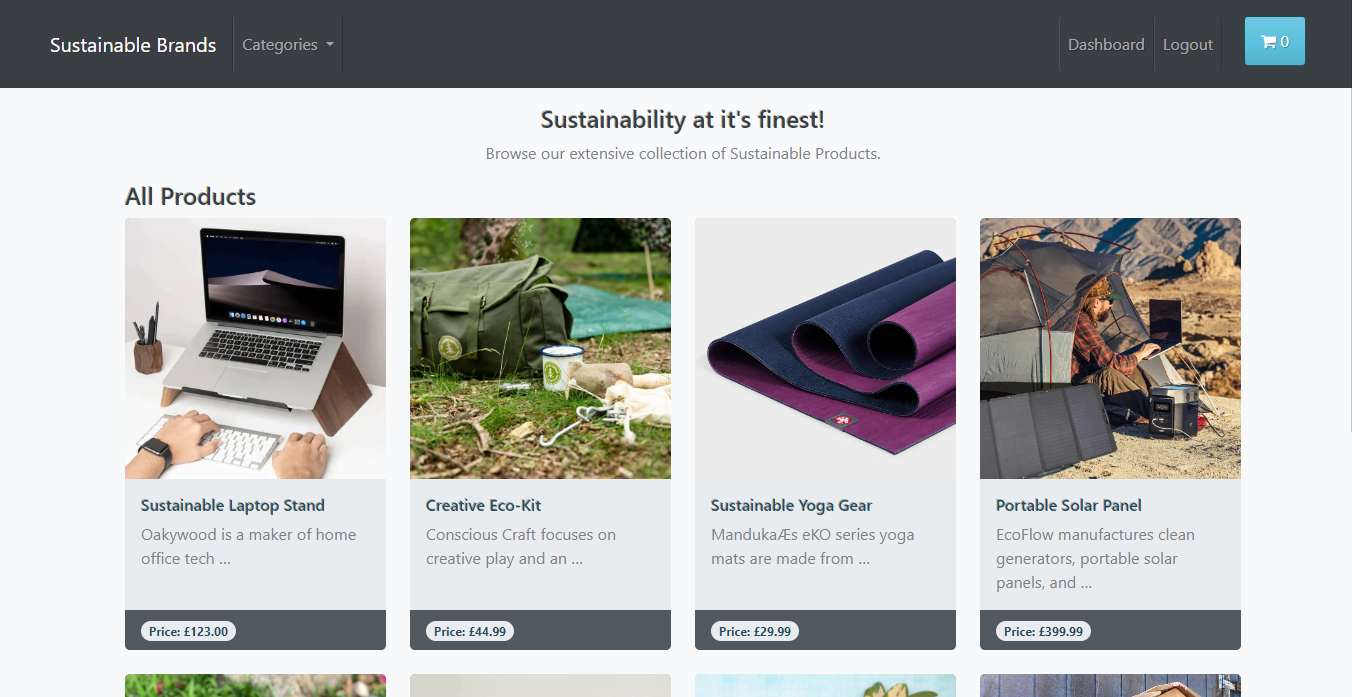
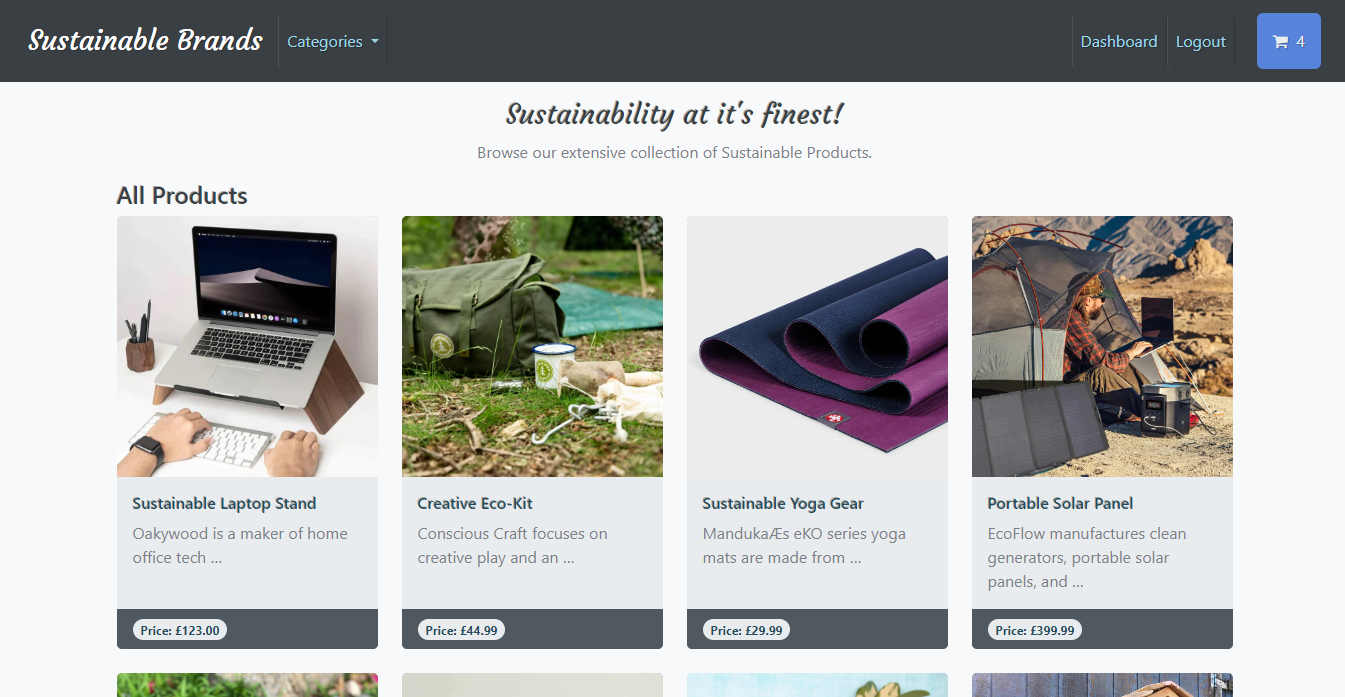
More on layout and theme improvement

diff --git a/store/templates/base.html b/store/templates/base.html
@@ -15,19 +15,23 @@
 			href="https://cdnjs.cloudflare.com/ajax/libs/font-awesome/4.7.0/css/font-awesome.min.css"
 		/>
 		<link rel="shortcut icon" type="image/png" href="{% static 'media/images/favicon.png' %}" >
+		<!-- Google fonts -->
+		<link rel="preconnect" href="https://fonts.googleapis.com">
+		<link rel="preconnect" href="https://fonts.gstatic.com" crossorigin>
+		<link href="https://fonts.googleapis.com/css2?family=Passion+One:wght@700&family=Courgette&display=swap" rel="stylesheet">
 		<title>Sustainability E-Commerce</title>
 	</head>
 	<body class="bg-body-tertiary">
-		<nav class="navbar navbar-expand-lg bg-primary py-3 border-0" data-bs-theme="dark">
+		<nav class="navbar navbar-expand-lg bg-primary py-2 border-0" data-bs-theme="dark">
 			<div class="container-fluid"> 
-				<a class="navbar-brand" href="{% url 'store' %}">
-					&nbsp; &nbsp; Sustainable Brands
+				<a class="navbar-brand custom-font fs-3 border-0" href="{% url 'store' %}">
+					Sustainable Brands
 				</a>
 				<a
 					type="button"
 					role="button"
 					href="{% url 'cart-summary' %}"
-					class="btn btn-info ms-auto d-lg-none d-xl-none"
+					class="btn custom-bg ms-auto d-lg-none d-xl-none d-xxl-none text-white"
 				>
 					<i class="fa fa-shopping-cart" aria-hidden="true"> </i>
 					&nbsp;
@@ -58,7 +62,7 @@
 					<ul class="navbar-nav me-auto mb-2 mb-md-0">
 						<li class="nav-item dropdown">
 							<a
-								class="nav-link dropdown-toggle {% if category.name %} active {% endif%}"
+								class="btn nav-link dropdown-toggle text-info-emphasis {% if category.name %} active {% endif%}"
 								href="#"
 								id="navbarDropdown"
 								role="button"
@@ -89,7 +93,7 @@
 						{% if request.user.is_authenticated %}
 						<li class="nav-item">
 							<a
-								class="btn nav-link {% if request.resolver_match.url_name == 'dashboard' %} active {% endif%}"
+								class="btn nav-link text-info-emphasis {% if request.resolver_match.url_name == 'dashboard' %} active {% endif%}"
 								type="button"
 								href="{% url 'dashboard' %}"
 								>Dashboard</a
@@ -97,7 +101,7 @@
 						</li>
 						<li class="nav-item">
 							<a
-								class="btn nav-link {% if request.resolver_match.url_name == 'user-logout' %} active {% endif%}"
+								class="btn nav-link text-info-emphasis {% if request.resolver_match.url_name == 'user-logout' %} active {% endif%}"
 								type="button"
 								href="{% url 'user-logout' %}"
 								>Logout</a
@@ -106,7 +110,7 @@
 						{% else %}
 						<li class="nav-item">
 							<a
-								class="btn nav-link {% if request.resolver_match.url_name == 'register' %} active {% endif%}"
+								class="btn nav-link px-3 text-info-emphasis {% if request.resolver_match.url_name == 'register' %} active {% endif%}"
 								type="button"
 								href="{% url 'register' %}"
 							>
@@ -115,7 +119,7 @@
 						</li>
 						<li class="nav-item">
 							<a
-								class="btn nav-link {% if request.resolver_match.url_name == 'user-login' %} active {% endif%}"
+								class="btn nav-link text-info-emphasis px-3 {% if request.resolver_match.url_name == 'user-login' %} active {% endif%}"
 								type="button"
 								href="{% url 'user-login' %}"
 								>Login</a
@@ -127,11 +131,11 @@
 							type="button"
 							role="button"
 							href="{% url 'cart-summary' %}"
-							class="btn btn-info ms-auto collapse navbar-collapse me-5"
+							class="btn nav-link px-3 collapse navbar-collapse me-3 text-white custom-bg {% if request.resolver_match.url_name == 'cart-summary' %} active {% endif%} border-0"
 							id="navbarCollapse"
 							>
 								<i class="fa fa-shopping-cart" aria-hidden="true"> </i>
-								&nbsp;
+								&nbsp;&nbsp;
 								<span id="cart-quantity" class="d-inline-flex">
 									{% with total_qty=cart.get_cart_quantity %} 
 										{% if total_qty %}

diff --git a/account/templates/account/user-login.html b/account/templates/account/user-login.html
@@ -1,21 +1,21 @@
 {% extends "base.html" %} {% load crispy_forms_tags %} {% block content %}
 <main class="form-main py-5">
-	<section class="form-wrapper px-4 rounded bg-body-secondary">
-		<h5 class="py-4 text-center text-black-50 text-uppercase">Login to your account</h5>
+	<section class="form-wrapper px-4 rounded-2 bg-body">
+		<h5 class="py-4 text-center text-uppercase">Login to your account</h5>
 		<form method="POST" autocomplete="off" autocapitalize="off" novalidate class="border-0">
 			{% csrf_token %} 
             {{ form|as_crispy_errors }}
             {{ form.username|as_crispy_field }}
             {{ form.password|as_crispy_field }}
             <!-- {{ form.non_field_errors }} -->
-			<button type="submit" class="btn btn-primary w-100 fs-5 border-0">
+			<button type="submit" class="btn custom-bg w-100 fs-5 border-0 text-white">
 				Login&nbsp;&nbsp;<i class="fa fa-sign-in" aria-hidden="true"></i>
 			</button>
-            <div class="py-4 text-black-50">
+            <div class="py-4">
                 Forgotten your password ?
                 <a class="link-info" href="{% url 'reset_password' %}">Recover your password</a>
             </div>
-            <div class="pb-4 text-black-50">
+            <div class="pb-4">
                 Don't have an account ?
                 <a class="link-info" href="{% url 'register' %}">Register instead</a>
             </div>

diff --git a/account/templates/registration/register.html b/account/templates/registration/register.html
@@ -1,8 +1,8 @@
 {% extends "base.html" %} {% load crispy_forms_tags %} {% block content %}
 <main class="form-main py-4 container">
-	<section class="form-wrapper container-md w-75 bg-light">
+	<section class="form-wrapper container-md w-75 bg-body rounded-2">
 		<div class="text-center">
-			<h4 class="p-4 text-black-50 text-uppercase">Registration Form</h4>
+			<h4 class="p-4 text-uppercase">Registration Form</h4>
 		</div>
 		<form
 			method="post"
@@ -18,10 +18,10 @@
             {{ form.email|as_crispy_field }} 
             {{ form.password1|as_crispy_field }} 
             {{form.password2|as_crispy_field }}
-			<button type="submit" class="btn btn-primary w-100 fs-5 border-0">
+			<button type="submit" class="btn custom-bg w-100 fs-5 border-0 text-white">
 				Create Account
 			</button>
-			<div class="py-4 text-black-50">
+			<div class="py-4">
 				Already have an account ?&nbsp;<a href="{% url 'user-login' %}"
 					class="link-info">Login instead</a
 				>

diff --git a/account/templates/account/manage-profile.html b/account/templates/account/manage-profile.html
@@ -1,15 +1,15 @@
 {% extends "base.html" %} 
 {% load crispy_forms_tags %}
 {% block content %}
-<main class="form-main py-4">
-    <section class="form-wrapper p-4"> 
-        <h3 class="py-4">Update Your Profile</h3>
+<main class="form-main py-5">
+    <section class="form-wrapper px-5 pb-4 pt-2 bg-body rounded-2"> 
+        <h3 class="text-center">Update Your Profile</h3>
         <form method="POST" class="blueForms" autocomplete="off" autocapitalize="off" novalidate>
             {% csrf_token %}
             {{ form|as_crispy_errors }}
             {{ user.username|as_crispy_field }} 
             {{ user.email|as_crispy_field }}
-            <button type="submit" class="btn btn-primary w-100">Update Profile</button>
+            <button type="submit" class="btn custom-bg w-100 text-white">Update Profile</button>
         </form>
     </section>
 </main>

diff --git a/static/css/styles.css b/static/css/styles.css
@@ -5,9 +5,9 @@ body {
 	overflow-x: hidden;
 }
 
-.btn {
+/* .btn {
 	border-radius: 4px !important;
-}
+} */
 
 .col a {
 	text-decoration: none;
@@ -18,13 +18,23 @@ body {
 	margin: auto;
 }
 
-#id_username,
+/* #id_username,
 #id_password,
 #id_email,
 #id_password1,
-#id_password2 {
+#id_password2,
+#id_full_name,
+#id_address1,
+#id_address2,
+#id_city,
+#id_state,
+#id_zipcode {
 	border: none;
 	border-width: 0;
+} */
+
+.form-control {
+	border: none !important;
 }
 
 .card-header {
@@ -38,6 +48,16 @@ body {
 
 .fa-bars {
 	color: #aca79e;
+}
+
+.custom-bg {
+	background-color: rgb(60, 81, 105) !important;
+	background-color: #80669d !important;
+	background-color: #5783db !important;
+}
+
+.custom-font {
+	font-family: 'Courgette', cursive;
 }
 
 @media only screen and (min-width: 700px) {

diff --git a/cart/templates/cart-summary.html b/cart/templates/cart-summary.html
@@ -86,7 +86,7 @@
 				</div>
 				<div class="cart-summary-buttons">
 					<a href="{% url 'store' %}" class="btn btn-primary border-0">Continue Browsing</a>
-					<a type="button" class="btn btn-info text-right border-0" href="{% url 'process-payment' %}">Proceed to Checkout &nbsp;
+					<a type="button" class="btn text-right border-0 custom-bg text-white" href="{% url 'process-payment' %}">Proceed to Checkout &nbsp;
 						<i class="fa fa-credit-card-alt" aria-hidden="true"></i
 					></a>
 				</div>

diff --git a/account/templates/account/dashboard.html b/account/templates/account/dashboard.html
@@ -24,7 +24,7 @@
 		<h4 class="py-4 text-center text-black-50">{{username}}'s Dashbord!</h4>
 		<div class="row row-cols-1 row-cols-lg-2 row-cols-xl-3 row-cols-xxl-4 justify-content-center gap-4">
 			<div class="card px-0 border-0 rounded col">
-				<div class="card-header fs-4 border-0 text-light bg-info">
+				<div class="card-header fs-4 border-0 text-white custom-bg">
 					Cart &nbsp;<i class="fa fa-shopping-cart" aria-hidden="true"> </i>
 				</div>
 				<div class="card-body">

diff --git a/store/templates/store.html b/store/templates/store.html
@@ -18,7 +18,7 @@
 	<section class="pt-3 text-center">
 		<div class="row">
 			<div class="mx-auto">
-				<h4 class="text-primary">Sustainability at it's finest!</h4>
+				<h4 class="text-primary custom-font fs-3">Sustainability at it's finest!</h4>
 				<p class="text-secondary">Browse our extensive collection of Sustainable Products.</p>
 				{% if not request.user.is_authenticated %}
 				<a href="{% url 'register' %}" class="btn btn-primary my-2">

diff --git a/payment/templates/process-payment.html b/payment/templates/process-payment.html
@@ -1,6 +1,6 @@
 {% extends "base.html" %} {% block content %} {% load crispy_forms_tags %}
-<main class="form-main">
-	<section class="form-wrapper">
+<main class="form-main py-5">
+	<section class="form-wrapper rounded-2 px-5 border-0 bg-body">
 		<h4 class="py-4 text-center">Edit or Enter Your Shipping Address</h4>
 		<form method="POST" autocomplete="off" autocapitalize="off" novalidate>
 			{% csrf_token %} 

diff --git a/store/templates/product-info.html b/store/templates/product-info.html
@@ -38,7 +38,7 @@
 							</div>
 							<div class="col-6 text-end">
 								<button
-									class="btn btn-sm btn-info border-0 p-2"
+									class="btn btn-sm custom-bg border-0 p-2 text-white"
 									onClick="addToCart('{{ product.id }}')"
 								>
 									Add to cart
